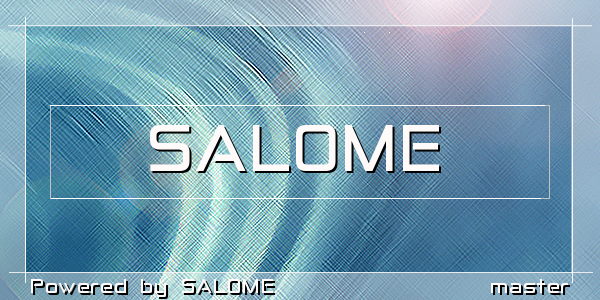
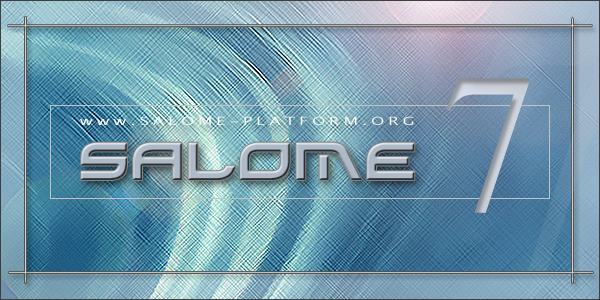
Add format template with [Name_of_Application]

Changed region(s): [[0.0, 0.0, 1.0, 1.0], [0.12, 0.39, 0.75, 0.63], [0.09, 0.24, 0.9, 0.72]]

diff --git a/src/resources/LightApp_msg_fr.ts b/src/resources/LightApp_msg_fr.ts
@@ -9,15 +9,15 @@
     </message>
     <message>
         <source>ABOUT_CAPTION</source>
-        <translation>A propos de SALOME</translation>
+        <translation>A propos de [Name_of_Application]</translation>
     </message>
     <message>
         <source>APP_NAME</source>
-        <translation>SALOME </translation>
+        <translation>[Name_of_Application] [SLOGAN]</translation>
     </message>
     <message>
         <source>APP_VERSION</source>
-        <translation>master</translation>
+        <translation>V[VERSION]</translation>
     </message>
     <message>
         <source>ABOUT_LICENSE</source>
@@ -25,11 +25,11 @@
     </message>
     <message>
         <source>ABOUT_VERSION</source>
-        <translation>Version master</translation>
+        <translation>Version [VERSION]</translation>
     </message>
     <message>
         <source>ABOUT_TITLE</source>
-        <translation>SALOME</translation>
+        <translation>[Name_of_Application]</translation>
     </message>
 </context>
 </TS>

diff --git a/src/resources/LightApp_msg_en.ts b/src/resources/LightApp_msg_en.ts
@@ -9,15 +9,15 @@
     </message>
     <message>
         <source>ABOUT_CAPTION</source>
-        <translation>About SALOME</translation>
+        <translation>About [Name_of_Application]</translation>
     </message>
     <message>
         <source>APP_NAME</source>
-        <translation>SALOME </translation>
+        <translation>[Name_of_Application] [SLOGAN]</translation>
     </message>
     <message>
         <source>APP_VERSION</source>
-        <translation>master</translation>
+        <translation>V[VERSION]</translation>
     </message>
     <message>
         <source>ABOUT_LICENSE</source>
@@ -25,11 +25,11 @@
     </message>
     <message>
         <source>ABOUT_VERSION</source>
-        <translation>Version master</translation>
+        <translation>Version [VERSION]</translation>
     </message>
     <message>
         <source>ABOUT_TITLE</source>
-        <translation>SALOME</translation>
+        <translation>[Name_of_Application]</translation>
     </message>
 </context>
 </TS>

diff --git a/src/resources/LightApp_msg_ja.ts b/src/resources/LightApp_msg_ja.ts
@@ -9,15 +9,15 @@
     </message>
     <message>
       <source>ABOUT_CAPTION</source>
-      <translation>About SALOME</translation>
+      <translation>About [Name_of_Application]</translation>
     </message>
     <message>
       <source>APP_NAME</source>
-      <translation>SALOME </translation>
+      <translation>[Name_of_Application] [SLOGAN]</translation>
     </message>
     <message>
       <source>APP_VERSION</source>
-      <translation>master</translation>
+      <translation>V[VERSION]</translation>
     </message>
     <message>
       <source>ABOUT_LICENSE</source>
@@ -25,11 +25,11 @@
     </message>
     <message>
       <source>ABOUT_VERSION</source>
-      <translation>Version master</translation>
+      <translation>Version [VERSION]</translation>
     </message>
     <message>
       <source>ABOUT_TITLE</source>
-      <translation>SALOME</translation>
+      <translation>[Name_of_Application]</translation>
     </message>
   </context>
 </TS>

diff --git a/doc/index.rst b/doc/index.rst
@@ -1,6 +1,6 @@
 
 %%%%%%%%%%%%%%%%%%%%%%%%%%%%%%%%%%%%%%%%%%
-SALOME's documentation 
+[Name_of_Application]'s documentation 
 %%%%%%%%%%%%%%%%%%%%%%%%%%%%%%%%%%%%%%%%%%
 
 Outline

diff --git a/doc/intro.rst b/doc/intro.rst
@@ -1,4 +1,4 @@
 Introduction
 ==========================================
 
-Welcome to SALOME's documentation!
+Welcome to [Name_of_Application]'s documentation!
